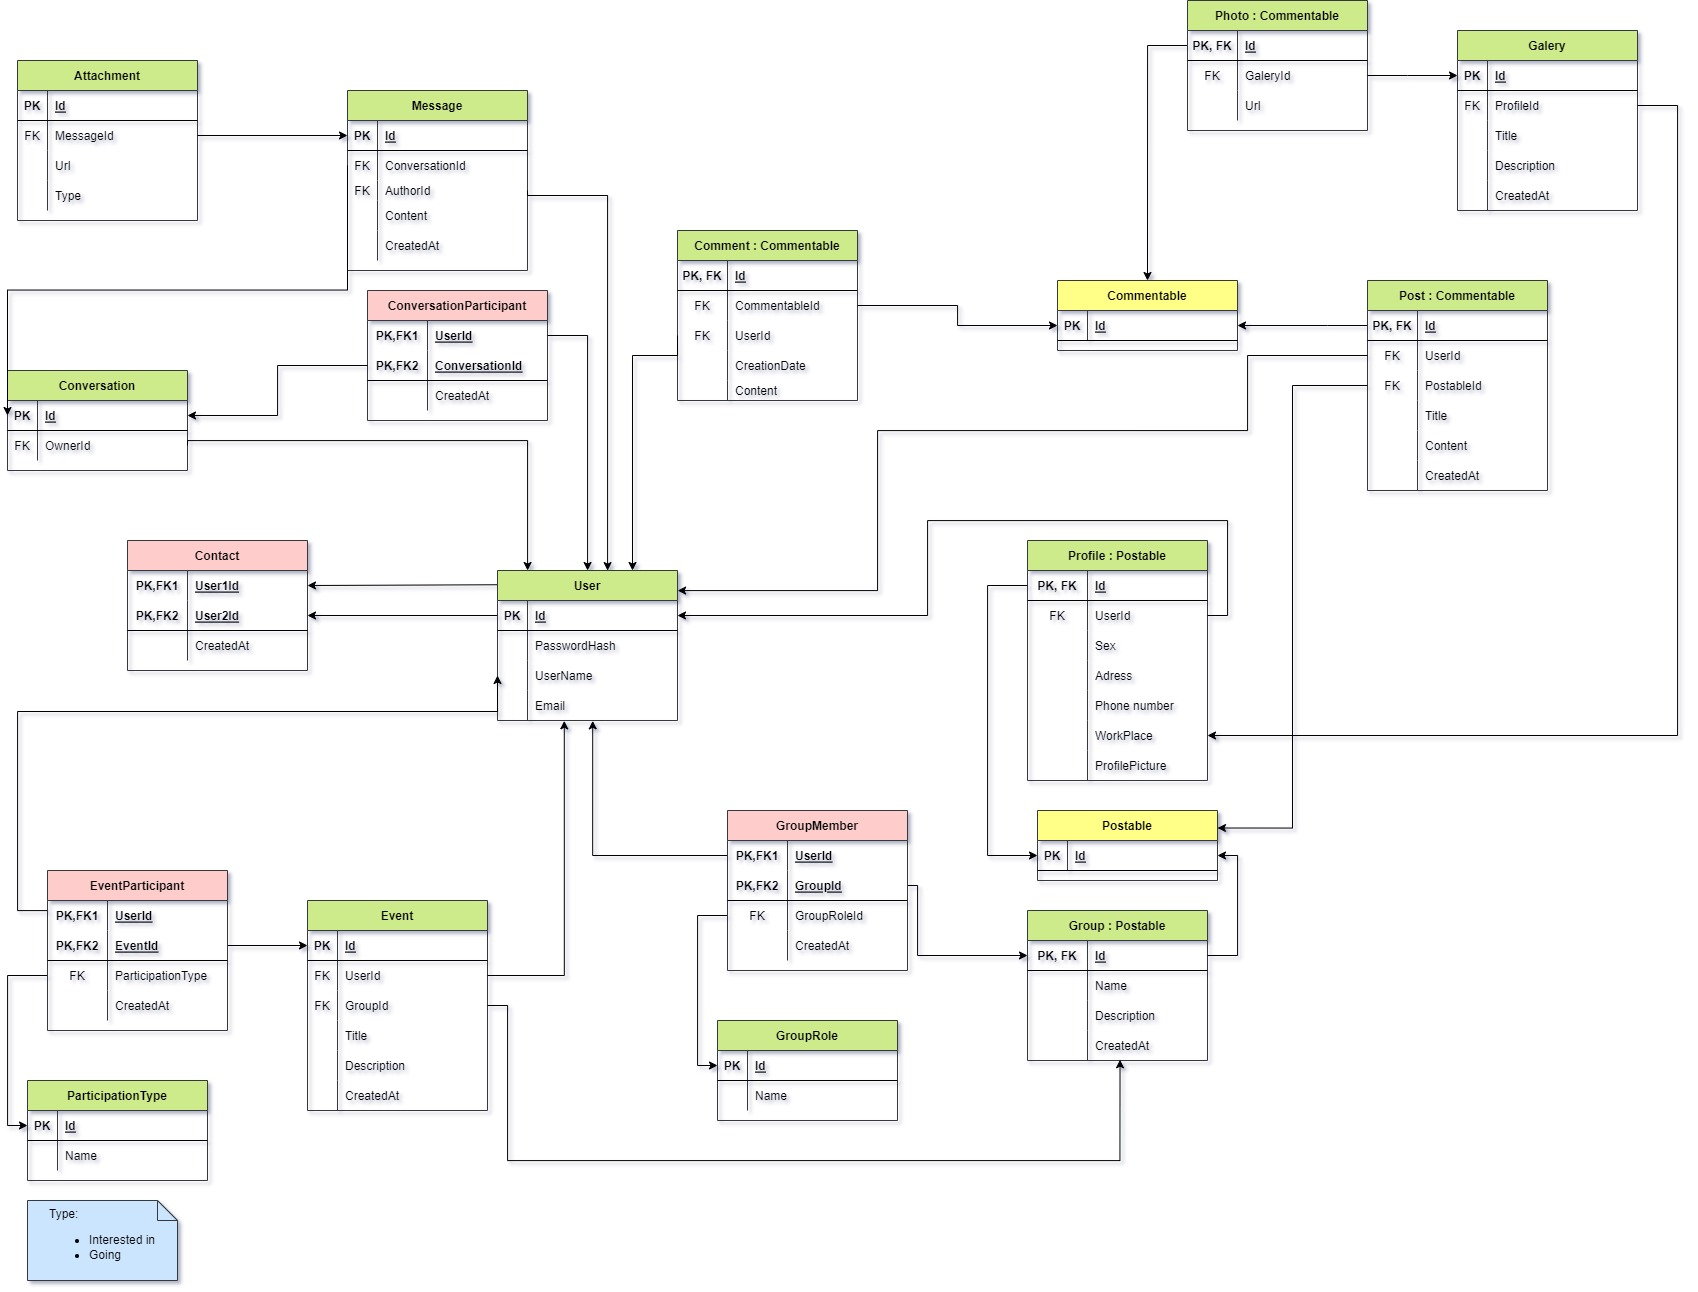
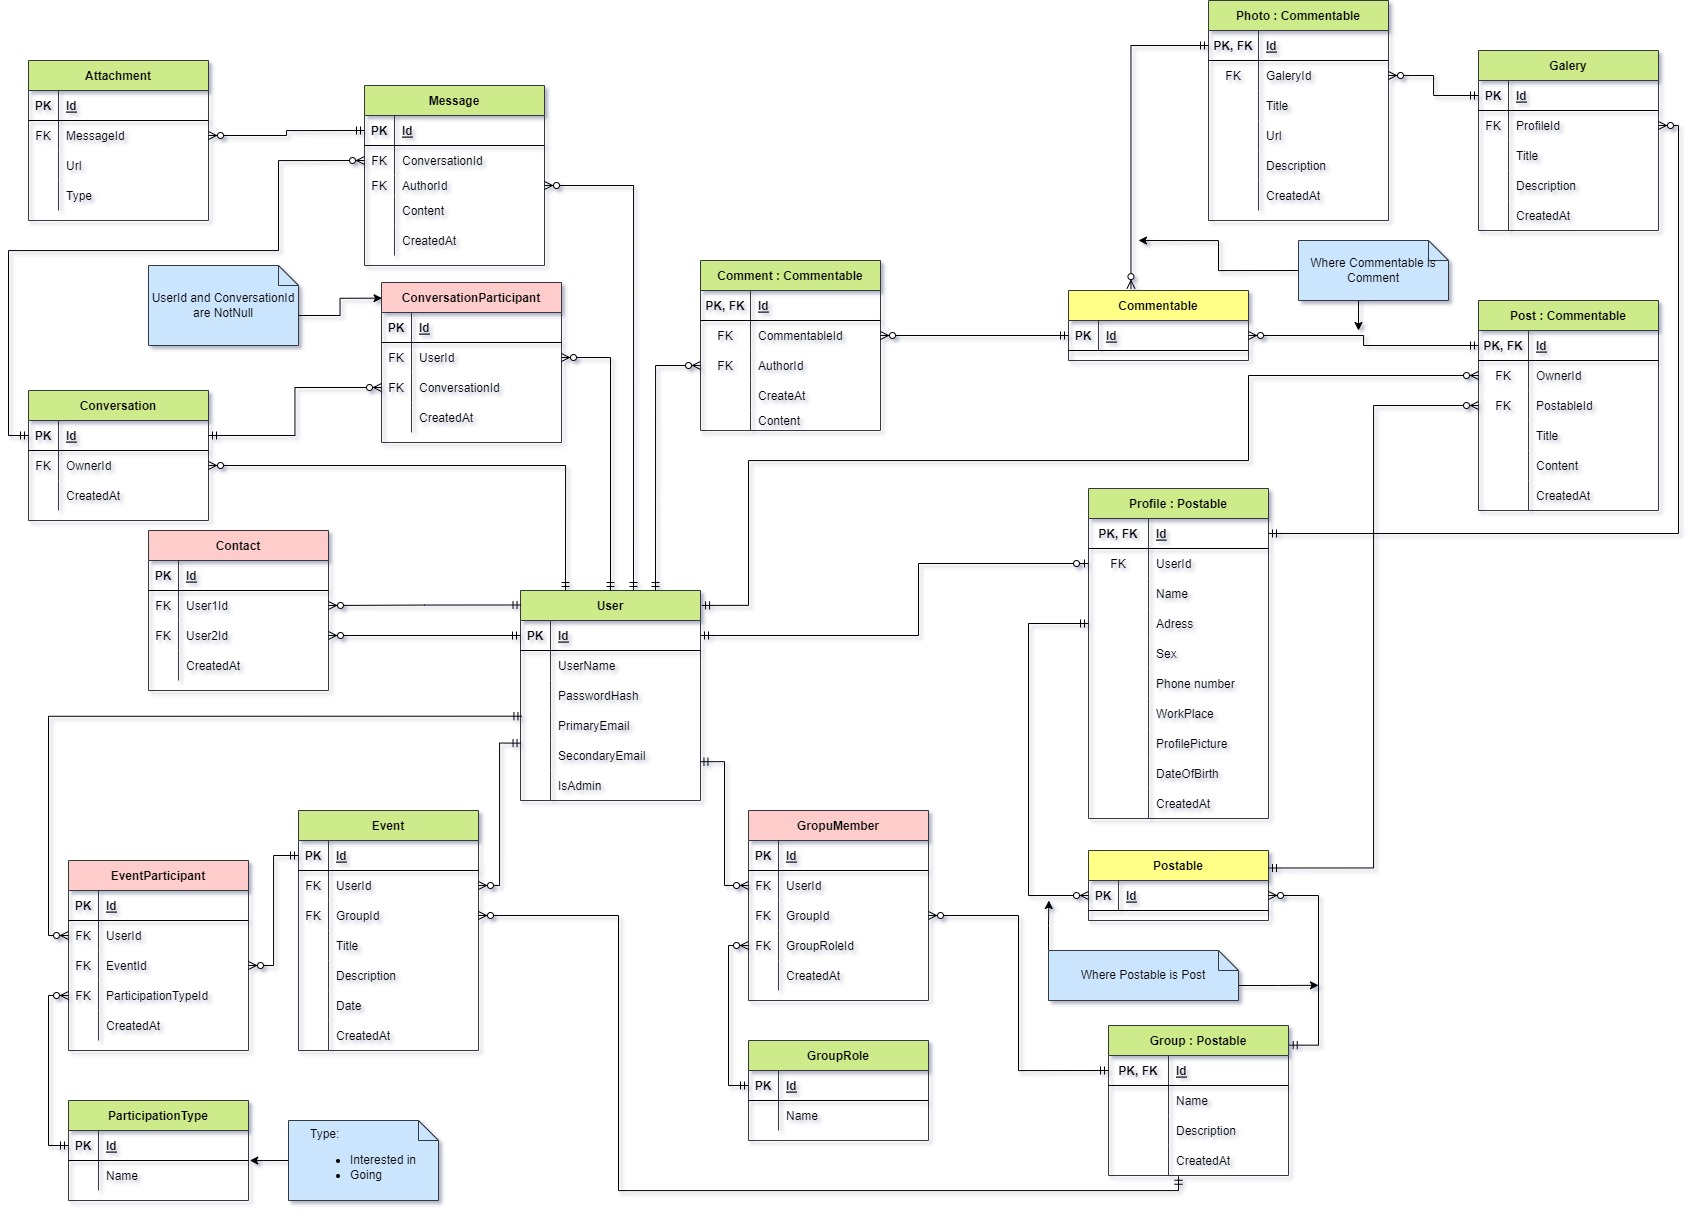
Refactoring of DAL

diff --git a/DataAccessLayer/DataAccessLayer/SocialNetworkDBContext.cs b/DataAccessLayer/DataAccessLayer/SocialNetworkDBContext.cs
@@ -1,5 +1,6 @@
 using DataAccessLayer.Data;
 using DataAccessLayer.Entity;
+using DataAccessLayer.Entity.JoinEntity;
 using Microsoft.EntityFrameworkCore;
 
 namespace DataAccessLayer
@@ -36,6 +37,7 @@ namespace DataAccessLayer
         protected override void OnConfiguring(DbContextOptionsBuilder optionsBuilder)
         {
             optionsBuilder.UseSqlServer(connectionString);
+            optionsBuilder.EnableSensitiveDataLogging();
             base.OnConfiguring(optionsBuilder);
         }
 
@@ -56,7 +58,6 @@ namespace DataAccessLayer
                 .HasForeignKey(a => a.ProfileId);
 
             modelBuilder.Entity<Photo>()
-                .ToTable("Photo")
                 .HasOne(p => p.Galery)
                 .WithMany(g => g.Photos)
                 .HasForeignKey(a => a.GaleryId);
@@ -67,31 +68,30 @@ namespace DataAccessLayer
                 .WithOne(o => o.User)
                 .HasForeignKey<Profile>(p => p.UserId);
 
-            modelBuilder.Entity<Post>().ToTable("Post");
+            /* Commentable */
             modelBuilder.Entity<Comment>().ToTable("Comment");
+            modelBuilder.Entity<Photo>().ToTable("Photo");
+            modelBuilder.Entity<Post>().ToTable("Post");
 
-            modelBuilder.Entity<Profile>()
-                .ToTable("Profile");
-
-            modelBuilder.Entity<Photo>()
-                .Property(p => p.Id)
-                .HasColumnName("PhotoId");
+            /* Postable */
+            modelBuilder.Entity<Group>().ToTable("Group");
+            modelBuilder.Entity<Profile>().ToTable("Profile");
 
             /* Set Many-To-Many relationship for User <-> Event */
-            modelBuilder.Entity<EventParticipant>()
-                .HasKey(ep => new { ep.UserId, ep.EventId });
+            /*modelBuilder.Entity<EventParticipant>()
+                .HasKey(ep => new { ep.UserId, ep.EventId });*/
 
             /* Set Many-To-Many relationship for User <-> Conversation */
-            modelBuilder.Entity<ConversationParticipant>()
-                .HasKey(cp => new { cp.UserId, cp.ConversationId });
+            /*modelBuilder.Entity<ConversationParticipant>()
+                .HasKey(cp => new { cp.UserId, cp.ConversationId });*/
 
             /* Set Many-To-Many relationship for User <-> Group */
-            modelBuilder.Entity<GroupMember>()
-                .HasKey(gm => new { gm.UserId, gm.GroupId });
+            /*modelBuilder.Entity<GroupMember>()
+                .HasKey(gm => new { gm.UserId, gm.GroupId });*/
 
             /* Set Many-To-Many relationship for User <-> User */
-            modelBuilder.Entity<Contact>()
-                .HasKey(c => new { c.User1Id, c.User2Id });
+            /*modelBuilder.Entity<Contact>()
+                .HasKey(c => new { c.User1Id, c.User2Id });*/
 
             modelBuilder.Entity<Contact>()
                 .HasOne(c => c.User2)
@@ -129,7 +129,7 @@ namespace DataAccessLayer
                 .WithOne(c => c.User)
                 .OnDelete(DeleteBehavior.Restrict);
 
-            //modelBuilder.Seed();
+            modelBuilder.Seed();
 
             base.OnModelCreating(modelBuilder);
         }

diff --git a/DataAccessLayer/DataAccessLayer/DataInitializer.cs b/DataAccessLayer/DataAccessLayer/DataInitializer.cs
@@ -1,4 +1,5 @@
 using DataAccessLayer.Entity;
+using DataAccessLayer.Entity.JoinEntity;
 using Microsoft.EntityFrameworkCore;
 
 namespace DataAccessLayer.Data
@@ -38,7 +39,7 @@ namespace DataAccessLayer.Data
             (
                 new Post
                 {
-                    Id = 1,
+                    Id = 2,
                     UserId = 1,
                     PostableId = 1,
                     Title = "Hello World!",
@@ -86,6 +87,7 @@ namespace DataAccessLayer.Data
             modelBuilder.Entity<GroupMember>().HasData(
                 new GroupMember
                 {
+                    Id = 1,
                     GroupId = 1,
                     UserId = 1,
                     GroupRoleId = 1,
@@ -113,6 +115,7 @@ namespace DataAccessLayer.Data
             modelBuilder.Entity<EventParticipant>().HasData(
                 new EventParticipant
                 {
+                    Id = 1,
                     EventId = 1,
                     UserId = 1,
                     ParticipationTypeId = 1,

diff --git a/DataAccessLayer/DataAccessLayer/Entity/JoinEntity/EventParticipant.cs b/DataAccessLayer/DataAccessLayer/Entity/JoinEntity/EventParticipant.cs
@@ -1,0 +1,32 @@
+using System.ComponentModel.DataAnnotations;
+using System.ComponentModel.DataAnnotations.Schema;
+
+namespace DataAccessLayer.Entity.JoinEntity
+{
+    public class EventParticipant : IEntity
+    {
+        [Key]
+        public int Id { get; set; }
+
+        [Required]
+        public int EventId { get; set; }
+
+        [ForeignKey(nameof(EventId))]
+        public Event Event { get; set; }
+
+        [Required]
+        public int UserId { get; set; }
+
+        [ForeignKey(nameof(UserId))]
+        public User User { get; set; }
+
+        [Required]
+        public int ParticipationTypeId { get; set; }
+
+        [ForeignKey(nameof(ParticipationTypeId))]
+        public ParticipationType ParticipationType { get; set; }
+
+        [Required]
+        public DateTime CreatedAt { get; set; }
+    }
+}

diff --git a/DataAccessLayer/DataAccessLayer/Entity/JoinEntity/GroupMember.cs b/DataAccessLayer/DataAccessLayer/Entity/JoinEntity/GroupMember.cs
@@ -1,0 +1,32 @@
+using System.ComponentModel.DataAnnotations;
+using System.ComponentModel.DataAnnotations.Schema;
+
+namespace DataAccessLayer.Entity.JoinEntity
+{
+    public class GroupMember : IEntity
+    {
+        [Key]
+        public int Id { get; set; }
+
+        [Required]
+        public int GroupId { get; set; }
+
+        [ForeignKey(nameof(GroupId))]
+        public Group Group { get; set; }
+
+        [Required]
+        public int UserId { get; set; }
+
+        [ForeignKey(nameof(UserId))]
+        public User User { get; set; }
+
+        [Required]
+        public int GroupRoleId { get; set; }
+
+        [ForeignKey(nameof(GroupRoleId))]
+        public GroupRole GroupRole { get; set; }
+
+        [Required]
+        public DateTime CreatedAt { get; set; }
+    }
+}

diff --git a/DataAccessLayer/DataAccessLayer/Entity/Address.cs b/DataAccessLayer/DataAccessLayer/Entity/Address.cs
@@ -7,21 +7,21 @@ namespace DataAccessLayer.Entity
     public class Address
     {
         [MaxLength(64)]
-        public string State { get; set; }
+        public string? State { get; set; }
 
         [MaxLength(64)]
-        public string Region { get; set; }
+        public string? Region { get; set; }
 
         [MaxLength(64)]
-        public string City { get; set; }
+        public string? City { get; set; }
 
         [MaxLength(64)]
-        public string Street { get; set; }
+        public string? Street { get; set; }
 
         [MaxLength(32)]
-        public string HouseNumber { get; set; }
+        public string? HouseNumber { get; set; }
 
         [MaxLength(32)]
-        public string PostalCode { get; set; }
+        public string? PostalCode { get; set; }
     }
 }

diff --git a/DataAccessLayer/DalConsoleApp/Program.cs b/DataAccessLayer/DalConsoleApp/Program.cs
@@ -12,7 +12,7 @@ if (connectionString != null)
         db.Database.EnsureDeleted();
         db.Database.EnsureCreated();
 
-        db.Users.Add(new User { Username="lokomotiva123", PrimaryEmail="cokoloko@gmail.com", PasswordHash="0123456789abcde0"});
+        db.Users.Add(new User { Username="lokomotiva123", PrimaryEmail="cokoloko@gmail.com", PasswordHash="0123456789abcde0", SecondaryEmail=null });
         db.SaveChanges();
 
         var user = db.Users.FirstOrDefault();

diff --git a/DataAccessLayer/DataAccessLayer/Entity/User.cs b/DataAccessLayer/DataAccessLayer/Entity/User.cs
@@ -1,4 +1,5 @@
 using System.ComponentModel.DataAnnotations;
+using DataAccessLayer.Entity.JoinEntity;
 
 namespace DataAccessLayer.Entity
 {
@@ -23,7 +24,7 @@ namespace DataAccessLayer.Entity
         [MaxLength(255)]
         public string? SecondaryEmail { get; set; }
 
-        public Profile? Profile { get; set; }
+        public Profile Profile { get; set; }
 
         public IList<EventParticipant> EventParticipants { get; set; }
 

diff --git a/DataAccessLayer/DataAccessLayer/Entity/Profile.cs b/DataAccessLayer/DataAccessLayer/Entity/Profile.cs
@@ -9,11 +9,11 @@ namespace DataAccessLayer.Entity
         [MaxLength(64)]
         public string? Name { get; set; }
 
-        public Address? Address { get; set; }
+        public Address Address { get; set; }
 
         public Sex Sex { get; set; }
 
-        public List<Galery>? Galeries { get; set; }
+        public List<Galery> Galeries { get; set; }
 
         [MaxLength(20)]
         public string? PhoneNumber { get; set; }

diff --git a/DataAccessLayer/DataAccessLayer/Entity/JoinEntity/ConversationParticipant.cs b/DataAccessLayer/DataAccessLayer/Entity/JoinEntity/ConversationParticipant.cs
@@ -1,10 +1,13 @@
 using System.ComponentModel.DataAnnotations;
 using System.ComponentModel.DataAnnotations.Schema;
 
-namespace DataAccessLayer.Entity
+namespace DataAccessLayer.Entity.JoinEntity
 {
-    public class ConversationParticipant
+    public class ConversationParticipant : IEntity
     {
+        [Key]
+        public int Id { get; set; }
+
         [Required]
         public int UserId { get; set; }
 

diff --git a/DataAccessLayer/DataAccessLayer/Entity/JoinEntity/Contact.cs b/DataAccessLayer/DataAccessLayer/Entity/JoinEntity/Contact.cs
@@ -2,10 +2,13 @@
 using System.ComponentModel.DataAnnotations;
 using System.ComponentModel.DataAnnotations.Schema;
 
-namespace DataAccessLayer.Entity
+namespace DataAccessLayer.Entity.JoinEntity
 {
-    public class Contact
+    public class Contact : IEntity
     {
+        [Key]
+        public int Id { get; set; }
+
         [Required]
         public int User1Id { get; set; }
 

diff --git a/DataAccessLayer/DataAccessLayer/Entity/Photo.cs b/DataAccessLayer/DataAccessLayer/Entity/Photo.cs
@@ -23,6 +23,6 @@ namespace DataAccessLayer.Entity
         [Required]
         public int GaleryId { get; set; }
 
-        public List<Comment> Comments { get; set; }
+        public IList<Commentable> Comments { get; set; }
     }
 }

diff --git a/DataAccessLayer/Infrastructure.EFCore/UnitOfWork/EFUnitOfWork.cs b/DataAccessLayer/Infrastructure.EFCore/UnitOfWork/EFUnitOfWork.cs
@@ -1,5 +1,6 @@
 using DataAccessLayer;
 using DataAccessLayer.Entity;
+using DataAccessLayer.Entity.JoinEntity;
 using Infrastructure.EFCore.Repository;
 using Infrastructure.Repository;
 using Infrastructure.UnitOfWork;
